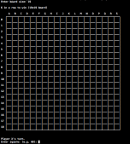
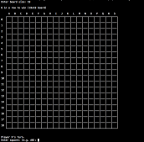
tweak tic tac toe project images and related css

diff --git a/css/site.css b/css/site.css
@@ -1,1 +1,1 @@
-@charset "UTF-8";html,body,div,span,applet,object,iframe,h1,h2,h3,h4,h5,h6,p,blockquote,pre,a,abbr,acronym,address,big,cite,code,del,dfn,em,img,ins,kbd,q,s,samp,small,strike,strong,sub,sup,tt,var,b,u,i,center,dl,dt,dd,ol,ul,li,fieldset,form,label,legend,table,caption,tbody,tfoot,thead,tr,th,td,article,aside,canvas,details,figcaption,figure,footer,header,hgroup,menu,nav,section,summary,time,mark,audio,video{margin:0;padding:0}article,aside,details,figcaption,figure,footer,header,hgroup,menu,nav,section{display:block}table{border-collapse:collapse;border-spacing:0}fieldset,img{border:0}address,caption,cite,dfn,th,var{font-style:normal;font-weight:normal}caption,th{text-align:left}h1,h2,h3,h4,h5,h6{font-size:100%;font-weight:normal}q:before,q:after{content:''}abbr,acronym{border:0}html{overflow-y:scroll;font-size:100%;font-family:Cambria,Georgia,"Times New Roman",serif;line-height:1.5;color:#333}body{width:940px;min-height:100%;padding:10px;margin:0 auto}.grids{margin-left:-20px;overflow:hidden;clear:both}.grid{float:left;margin:0 20px 0 0}.grids .grid{margin:0 0 0 20px}.grid-1{width:40px}.grid-2{width:100px}.grid-3{width:160px}.grid-4{width:220px}.grid-5{width:280px}.grid-6{width:340px}.grid-7{width:400px}.grid-8{width:460px}.grid-9{width:520px}.grid-10{width:580px}.grid-11{width:640px}.grid-12{width:700px}.grid-13{width:760px}.grid-14{width:820px}.grid-15{width:880px}.grid-16{width:940px;margin:0}#nav{list-style:none;width:100%;overflow:hidden;margin:0;height:45px;background-color:#6B563F}#nav ul{margin:0px}#nav a{display:block}#nav a.selected{background-color:white;color:#000000}#nav li{float:left;display:inline;list-style-image:none;list-style-position:outside;list-style-type:none}#nav li a{font-size:1.25em;letter-spacing:2px;display:block;float:left;height:25px;background-color:#6B563F;color:#ffffff;text-align:center;padding:8px 20px 12px 20px}#nav li a.nav-link:hover{text-decoration:none;background-color:#A9C78C;color:#000000}#nav li a.selected:hover{background-color:white;color:#000000}h1{font-size:2em;margin-bottom:0.25em;line-height:1.5}h2{font-size:1.75em;line-height:1}h3{font-size:1.5em;line-height:1.2;font-variant:small-caps}h4{font-size:1.1em;line-height:1.333;font-weight:bold}h5,h6{font-size:.85em;line-height:1.5}p{margin-bottom:1.5em}a{text-decoration:none}a:hover{text-decoration:underline}ul,ol{margin:0 0 1em 60px}ul ul,ol ol,ul ol,ol ul{margin:0 0 0 30px;list-style-type:disc}ul p,ol p{margin:0}dl{margin-bottom:1.5em}dt{font-weight:bold}dt:after,dt::after{content:":"}dd{margin-left:60px}q,i,em,cite{font-style:italic;font-weight:inherit}b,strong{font-weight:bold;font-style:inherit}mark{background:#ffc}s,del{text-decoration:line-through}small{font-size:0.75em;line-height:1}pre,code{font-family:Consolas,Menlo,Monaco,Lucida Console,Liberation Mono,DejaVu Sans Mono,Bitstream Vera Sans Mono,Courier New,monospace,serif;font-size:1em;font-style:normal}pre{overflow:auto;margin-bottom:1.5em;line-height:18px}code{line-height:1}img{max-width:100%;height:auto}object,embed,video{max-width:100%;height:auto}fieldset{padding:10px;border:1px solid #ccc;margin-bottom:1.5em}label{display:block;cursor:pointer}input,textarea{font-family:inherit;font-size:1em;line-height:1.5}table{margin-bottom:1.5em;width:100%;max-width:100%}th,td{vertical-align:top}th{font-weight:bold;text-align:center}td[colspan]{text-align:center}tfoot{text-align:center}.accessibility{position:absolute;left:-99999px}body{background:none;background:url(/img/green_squares3.png) repeat scroll 0 0 #376a44}#content{background-color:#FFF2CF;min-height:400px}#content-padding{padding:25px}a{color:#279F9D}a:hover{color:#1D7774;text-decoration:underline}h1 a{color:#333}.faded{color:#888888;font-family:Calibri,"Helvetica Neue",Arial,sans-serif;font-size:12px}.indent{padding-left:7px}.big_square_link{text-align:center;margin-top:10px}.big_square_link a{padding:20px 30px 0px;text-decoration:none;display:block;color:#333333}.big_square_link a:hover{background-color:#a9c78c;color:#333333}.blockylist h1,.blockylist h2,.blockylist h3,.blockylist h4,.blockylist h5{margin:0px}.blockylist ul{margin:10px 0px 10px 0px}.blockylist li{list-style-type:none}.blockylist ul div{margin:0px}.blockylist img{float:left;margin-right:10px;margin-top:9px}.blockylist a{text-decoration:none;display:block;color:#333333;padding:10px}.blockylist a:hover{background-color:#a9c78c;color:#000000}.bigblockylist > ul > li{margin-bottom:10px}.bigblockylist a{min-height:110px;padding-top:0px;padding-bottom:0px}.bigblockylist h1{padding-top:4px}.bigblockylist div{padding-left:120px}.mediumblockylist > ul > li{margin-bottom:10px}.mediumblockylist a{min-height:45px}div.mediumblockylist div{margin-left:1em;margin-top:.5em}.archiveblockylist > ul > li{margin-bottom:10px}.archiveblockylist a{min-height:65px;padding-top:0px;padding-bottom:0px}.archiveblockylist a h2{padding-top:8px;font-family:Cambria,Georgia,"Times New Roman",serif}.archiveblockylist a div{padding-top:2px}.compact_list > li{padding:0px;margin:5px 0px;list-style-type:none}p{margin-bottom:1em}h2,h3,h4,h5{margin:1em 0 .75em 0;font-family:Calibri,"Helvetica Neue",Arial,sans-serif}h5{margin-bottom:.5em;margin-top:.5em}.last_paragraph{margin-bottom:1.5em}.big_text{font-size:138.5%}.medium_text{font-size:123.1%}.tiny_text{font-size:.75em}td{background:white;vertical-align:middle}td a{display:block}.blockylist time{display:block;float:left;padding:0em .75em 0 0}.blockylist time span{color:#999999;display:block;margin:0;padding:0;text-align:center;font-family:Calibri,"Helvetica Neue",Arial,sans-serif}.blockylist time span.month{font-size:1em}.blockylist time span.day{font-size:1.6em;line-height:0.8em}.blockylist time span.year{font-size:0.8em}.blockylist a:hover time span,.blockylist a:hover .faded{color:#333}#blurb{font-size:1.25em;line-height:1.2;margin-top:1em;margin-bottom:1em}#profile_image{float:left;margin-right:20px;margin-bottom:10px;-moz-box-shadow:0px 0px 10px 2px #888;-webkit-box-shadow:0px 0px 10px 2px #888;box-shadow:0px 0px 10px 2px #888}#related{margin-top:30px}#post{margin-bottom:20px}hr.fancyrule{border:none;height:2px;background-color:#cccccc;color:#cccccc;margin:30px 0}#gallery{padding:5px;margin-bottom:10px;height:150px;overflow:hidden}#gallery ul{list-style:none;margin:0px}#gallery ul li{display:inline}#gallery ul img{margin:10px;width:144px}#gallery ul a:hover img{margin:0px;width:164px}#footer{padding-top:10px;text-align:center;color:white;clear:both}.project_thumbnail{width:90px;height:90px;border:1px solid black;-moz-box-shadow:0px 0px 10px 0px #888;-webkit-box-shadow:0px 0px 10px 0px #888;box-shadow:0px 0px 10px 0px #888}pre{background-color:#EEEEEE;border-top:1px solid #CCCCCC;border-bottom:1px solid #CCCCCC;padding:1em}code{font-size:12px;font-family:Consolas,Menlo,Monaco,Lucida Console,Liberation Mono,DejaVu Sans Mono,Bitstream Vera Sans Mono,Courier New,monospace,serif;background-color:#EEEEEE;padding:4px}pre code{padding:0}#socialbuttons{margin-bottom:15px}#socialbuttons div{display:inline-block;vertical-align:top;margin-top:10px}#socialbuttons iframe{vertical-align:bottom}#rss_button{margin-right:30px}#twitter_button{margin-right:30px}#reddit_button{margin-right:30px}#reddit_button iframe{margin-bottom:-3px}blockquote p,blockquote ul,blockquote ol,blockquote .highlight{margin-bottom:1em}blockquote p:last-child,blockquote ul:last-child,blockquote ol:last-child,blockquote .highlight:last-child{margin-bottom:0}blockquote pre{margin-bottom:0}blockquote{border-left:3px solid #BBBBBB;padding:.5em 1em 0.5em 1em;margin:1em 1em 1.5em 1em;background-color:#F5F5F5;font-style:italic}blockquote .highlight{background-color:#F5F5F5}.interjection{font-size:88%}.super{vertical-align:super;font-size:75%;font-family:Calibri,"Helvetica Neue",Arial,sans-serif}.symmetrical_line_height pre{line-height:12px}#post img{display:block;margin-left:auto;margin-right:auto}#formatted_solutions{margin-bottom:1.5em}#formatted_solutions pre{margin-bottom:0}#formatted_solutions > p,#formatted_solutions .indent{margin-left:60px}#formatted_solutions ul{list-style-type:none}#formatted_solutions .code_explanation{margin:0.5em 0}#formatted_solutions .question{font-size:1em;line-height:1.333;font-family:Calibri,"Helvetica Neue",Arial,sans-serif;margin-bottom:0.75em;margin-top:1.5em}#formatted_solutions .tiny_title{font-size:.85em;line-height:1.5;font-family:Calibri,"Helvetica Neue",Arial,sans-serif;margin-bottom:0.5em;margin-top:0.5em}.contact-row{height:90px}@media (min-width: 721px) and (max-width: 960px){body{width:700px}.grid-1{width:25px}.grid-2{width:70px}.grid-3{width:115px}.grid-4{width:160px}.grid-5{width:205px}.grid-6{width:250px}.grid-7{width:295px}.grid-8{width:340px}.grid-9{width:385px}.grid-10{width:430px}.grid-11{width:475px}.grid-12{width:520px}.grid-13{width:565px}.grid-14{width:610px}.grid-15{width:655px}.grid-16{width:700px}ul,ol{margin:0 0 1em 45px}ul ul,ol ol,ul ol,ol ul{margin:0 0 0 22.5px}dd{margin-left:45px}#formatted_solutions > p,#formatted_solutions .indent{margin-left:45px}}@media (max-width: 720px){html{font-size:1em}body{padding:10px;width:auto;-webkit-text-size-adjust:none}h1{font-size:1.7em}.grid{width:auto;float:none}#content-padding{padding:15px 10px}ul,ol{margin:0 0 1em 25px}ul ul,ol ol,ul ol,ol ul{margin:0 0 0 12.5px}dd{margin-left:25px}#formatted_solutions > p,#formatted_solutions .indent{margin-left:25px}#nav{height:auto}#nav li a{font-size:1em;height:20px;padding:6px 16px 8px 16px}#nav #rss-nav-icon,#nav #twitter-nav-icon{padding-left:8px;padding-right:8px}#nav #rss-nav-icon img,#nav #twitter-nav-icon img{height:24px}.contact-row{height:auto}.blockylist div{padding:0px}.blockylist img{height:65px;width:65px}.project_thumbnail{height:75px;width:75px}}@media print{*{background:#fff;color:#000;text-shadow:none!important}body{width:75%;margin:0 auto;font-size:0.75em}#nav,#footer{display:none}.grid{width:auto;float:none;clear:both}img{max-width:100%;height:auto}table{page-break-before:always}.accessibility{position:static}a:link:after,a:visited:after,a:link::after,a:visited::after{content:" (" attr(href) ")";font-size:smaller}a[href^="/"]:after,a[href^="/"]::after{content:" (http://nickknowlson.com" attr(href) ")";font-size:smaller}object:after,object::after{content:"Flash/video content. Head to http://nickknowlson.com/ to view this content.";display:block;font-weight:bold;margin-bottom:1.5em}}
+@charset "UTF-8";html,body,div,span,applet,object,iframe,h1,h2,h3,h4,h5,h6,p,blockquote,pre,a,abbr,acronym,address,big,cite,code,del,dfn,em,img,ins,kbd,q,s,samp,small,strike,strong,sub,sup,tt,var,b,u,i,center,dl,dt,dd,ol,ul,li,fieldset,form,label,legend,table,caption,tbody,tfoot,thead,tr,th,td,article,aside,canvas,details,figcaption,figure,footer,header,hgroup,menu,nav,section,summary,time,mark,audio,video{margin:0;padding:0}article,aside,details,figcaption,figure,footer,header,hgroup,menu,nav,section{display:block}table{border-collapse:collapse;border-spacing:0}fieldset,img{border:0}address,caption,cite,dfn,th,var{font-style:normal;font-weight:normal}caption,th{text-align:left}h1,h2,h3,h4,h5,h6{font-size:100%;font-weight:normal}q:before,q:after{content:''}abbr,acronym{border:0}html{overflow-y:scroll;font-size:100%;font-family:Cambria,Georgia,"Times New Roman",serif;line-height:1.5;color:#333}body{width:940px;min-height:100%;padding:10px;margin:0 auto}.grids{margin-left:-20px;overflow:hidden;clear:both}.grid{float:left;margin:0 20px 0 0}.grids .grid{margin:0 0 0 20px}.grid-1{width:40px}.grid-2{width:100px}.grid-3{width:160px}.grid-4{width:220px}.grid-5{width:280px}.grid-6{width:340px}.grid-7{width:400px}.grid-8{width:460px}.grid-9{width:520px}.grid-10{width:580px}.grid-11{width:640px}.grid-12{width:700px}.grid-13{width:760px}.grid-14{width:820px}.grid-15{width:880px}.grid-16{width:940px;margin:0}#nav{list-style:none;width:100%;overflow:hidden;margin:0;height:45px;background-color:#6B563F}#nav ul{margin:0px}#nav a{display:block}#nav a.selected{background-color:white;color:#000000}#nav li{float:left;display:inline;list-style-image:none;list-style-position:outside;list-style-type:none}#nav li a{font-size:1.25em;letter-spacing:2px;display:block;float:left;height:25px;background-color:#6B563F;color:#ffffff;text-align:center;padding:8px 20px 12px 20px}#nav li a.nav-link:hover{text-decoration:none;background-color:#A9C78C;color:#000000}#nav li a.selected:hover{background-color:white;color:#000000}h1{font-size:2em;margin-bottom:0.25em;line-height:1.5}h2{font-size:1.75em;line-height:1}h3{font-size:1.5em;line-height:1.2;font-variant:small-caps}h4{font-size:1.1em;line-height:1.333;font-weight:bold}h5,h6{font-size:.85em;line-height:1.5}p{margin-bottom:1.5em}a{text-decoration:none}a:hover{text-decoration:underline}ul,ol{margin:0 0 1em 60px}ul ul,ol ol,ul ol,ol ul{margin:0 0 0 30px;list-style-type:disc}ul p,ol p{margin:0}dl{margin-bottom:1.5em}dt{font-weight:bold}dt:after,dt::after{content:":"}dd{margin-left:60px}q,i,em,cite{font-style:italic;font-weight:inherit}b,strong{font-weight:bold;font-style:inherit}mark{background:#ffc}s,del{text-decoration:line-through}small{font-size:0.75em;line-height:1}pre,code{font-family:Consolas,Menlo,Monaco,Lucida Console,Liberation Mono,DejaVu Sans Mono,Bitstream Vera Sans Mono,Courier New,monospace,serif;font-size:1em;font-style:normal}pre{overflow:auto;margin-bottom:1.5em;line-height:18px}code{line-height:1}img{max-width:100%;height:auto}object,embed,video{max-width:100%;height:auto}fieldset{padding:10px;border:1px solid #ccc;margin-bottom:1.5em}label{display:block;cursor:pointer}input,textarea{font-family:inherit;font-size:1em;line-height:1.5}table{margin-bottom:1.5em;width:100%;max-width:100%}th,td{vertical-align:top}th{font-weight:bold;text-align:center}td[colspan]{text-align:center}tfoot{text-align:center}.accessibility{position:absolute;left:-99999px}body{background:none;background:url(/img/green_squares3.png) repeat scroll 0 0 #376a44}#content{background-color:#FFF2CF;min-height:400px}#content-padding{padding:25px}a{color:#279F9D}a:hover{color:#1D7774;text-decoration:underline}h1 a{color:#333}.faded{color:#888888;font-family:Calibri,"Helvetica Neue",Arial,sans-serif;font-size:12px}.indent{padding-left:7px}.big_square_link{text-align:center;margin-top:10px}.big_square_link a{padding:20px 30px 0px;text-decoration:none;display:block;color:#333333}.big_square_link a:hover{background-color:#a9c78c;color:#333333}.blockylist h1,.blockylist h2,.blockylist h3,.blockylist h4,.blockylist h5{margin:0px}.blockylist ul{margin:10px 0px 10px 0px}.blockylist li{list-style-type:none}.blockylist ul div{margin:0px}.blockylist img{float:left;margin-right:10px;margin-top:9px}.blockylist a{text-decoration:none;display:block;color:#333333;padding:10px}.blockylist a:hover{background-color:#a9c78c;color:#000000}.bigblockylist > ul > li{margin-bottom:10px}.bigblockylist a{min-height:110px;padding-top:0px;padding-bottom:0px}.bigblockylist h1{padding-top:4px}.bigblockylist div{padding-left:120px}.mediumblockylist > ul > li{margin-bottom:10px}.mediumblockylist a{min-height:45px}div.mediumblockylist div{margin-left:1em;margin-top:.5em}.archiveblockylist > ul > li{margin-bottom:10px}.archiveblockylist a{min-height:65px;padding-top:0px;padding-bottom:0px}.archiveblockylist a h2{padding-top:8px;font-family:Cambria,Georgia,"Times New Roman",serif}.archiveblockylist a div{padding-top:2px}.compact_list > li{padding:0px;margin:5px 0px;list-style-type:none}p{margin-bottom:1em}h2,h3,h4,h5{margin:1em 0 .75em 0;font-family:Calibri,"Helvetica Neue",Arial,sans-serif}h5{margin-bottom:.5em;margin-top:.5em}.last_paragraph{margin-bottom:1.5em}.big_text{font-size:138.5%}.medium_text{font-size:123.1%}.tiny_text{font-size:.75em}td{background:white;vertical-align:middle}td a{display:block}.blockylist time{display:block;float:left;padding:0em .75em 0 0}.blockylist time span{color:#999999;display:block;margin:0;padding:0;text-align:center;font-family:Calibri,"Helvetica Neue",Arial,sans-serif}.blockylist time span.month{font-size:1em}.blockylist time span.day{font-size:1.6em;line-height:0.8em}.blockylist time span.year{font-size:0.8em}.blockylist a:hover time span,.blockylist a:hover .faded{color:#333}#blurb{font-size:1.25em;line-height:1.2;margin-top:1em;margin-bottom:1em}#profile_image{float:left;margin-right:20px;margin-bottom:10px;-moz-box-shadow:0px 0px 10px 2px #888;-webkit-box-shadow:0px 0px 10px 2px #888;box-shadow:0px 0px 10px 2px #888}#related{margin-top:30px}#post{margin-bottom:20px}hr.fancyrule{border:none;height:2px;background-color:#cccccc;color:#cccccc;margin:30px 0}#gallery{padding:5px;height:184px;overflow:hidden}#gallery ul{list-style:none;margin:0px}#gallery ul li{display:inline-block;height:144px}#gallery ul a{display:inline-block;height:144px}#gallery ul img{margin:10px 10px 10px 10px;width:144px}#gallery ul a:hover img{margin:0 0 0px 0;width:164px}#footer{padding-top:10px;text-align:center;color:white;clear:both}.project_thumbnail{width:90px;height:90px;border:1px solid black;-moz-box-shadow:0px 0px 10px 0px #888;-webkit-box-shadow:0px 0px 10px 0px #888;box-shadow:0px 0px 10px 0px #888}pre{background-color:#EEEEEE;border-top:1px solid #CCCCCC;border-bottom:1px solid #CCCCCC;padding:1em}code{font-size:12px;font-family:Consolas,Menlo,Monaco,Lucida Console,Liberation Mono,DejaVu Sans Mono,Bitstream Vera Sans Mono,Courier New,monospace,serif;background-color:#EEEEEE;padding:4px}pre code{padding:0}#socialbuttons{margin-bottom:15px}#socialbuttons div{display:inline-block;vertical-align:top;margin-top:10px}#socialbuttons iframe{vertical-align:bottom}#rss_button{margin-right:30px}#twitter_button{margin-right:30px}#reddit_button{margin-right:30px}#reddit_button iframe{margin-bottom:-3px}blockquote p,blockquote ul,blockquote ol,blockquote .highlight{margin-bottom:1em}blockquote p:last-child,blockquote ul:last-child,blockquote ol:last-child,blockquote .highlight:last-child{margin-bottom:0}blockquote pre{margin-bottom:0}blockquote{border-left:3px solid #BBBBBB;padding:.5em 1em 0.5em 1em;margin:1em 1em 1.5em 1em;background-color:#F5F5F5;font-style:italic}blockquote .highlight{background-color:#F5F5F5}.interjection{font-size:88%}.super{vertical-align:super;font-size:75%;font-family:Calibri,"Helvetica Neue",Arial,sans-serif}.symmetrical_line_height pre{line-height:12px}#post img{display:block;margin-left:auto;margin-right:auto}#formatted_solutions{margin-bottom:1.5em}#formatted_solutions pre{margin-bottom:0}#formatted_solutions > p,#formatted_solutions .indent{margin-left:60px}#formatted_solutions ul{list-style-type:none}#formatted_solutions .code_explanation{margin:0.5em 0}#formatted_solutions .question{font-size:1em;line-height:1.333;font-family:Calibri,"Helvetica Neue",Arial,sans-serif;margin-bottom:0.75em;margin-top:1.5em}#formatted_solutions .tiny_title{font-size:.85em;line-height:1.5;font-family:Calibri,"Helvetica Neue",Arial,sans-serif;margin-bottom:0.5em;margin-top:0.5em}.contact-row{height:90px}@media (min-width: 721px) and (max-width: 960px){body{width:700px}.grid-1{width:25px}.grid-2{width:70px}.grid-3{width:115px}.grid-4{width:160px}.grid-5{width:205px}.grid-6{width:250px}.grid-7{width:295px}.grid-8{width:340px}.grid-9{width:385px}.grid-10{width:430px}.grid-11{width:475px}.grid-12{width:520px}.grid-13{width:565px}.grid-14{width:610px}.grid-15{width:655px}.grid-16{width:700px}ul,ol{margin:0 0 1em 45px}ul ul,ol ol,ul ol,ol ul{margin:0 0 0 22.5px}dd{margin-left:45px}#formatted_solutions > p,#formatted_solutions .indent{margin-left:45px}}@media (max-width: 720px){html{font-size:1em}body{padding:10px;width:auto;-webkit-text-size-adjust:none}h1{font-size:1.7em}.grid{width:auto;float:none}#content-padding{padding:15px 10px}ul,ol{margin:0 0 1em 25px}ul ul,ol ol,ul ol,ol ul{margin:0 0 0 12.5px}dd{margin-left:25px}#formatted_solutions > p,#formatted_solutions .indent{margin-left:25px}#nav{height:auto}#nav li a{font-size:1em;height:20px;padding:6px 16px 8px 16px}#nav #rss-nav-icon,#nav #twitter-nav-icon{padding-left:8px;padding-right:8px}#nav #rss-nav-icon img,#nav #twitter-nav-icon img{height:24px}.contact-row{height:auto}.blockylist div{padding:0px}.blockylist img{height:65px;width:65px}.project_thumbnail{height:75px;width:75px}}@media print{*{background:#fff;color:#000;text-shadow:none!important}body{width:75%;margin:0 auto;font-size:0.75em}#nav,#footer{display:none}.grid{width:auto;float:none;clear:both}img{max-width:100%;height:auto}table{page-break-before:always}.accessibility{position:static}a:link:after,a:visited:after,a:link::after,a:visited::after{content:" (" attr(href) ")";font-size:smaller}a[href^="/"]:after,a[href^="/"]::after{content:" (http://nickknowlson.com" attr(href) ")";font-size:smaller}object:after,object::after{content:"Flash/video content. Head to http://nickknowlson.com/ to view this content.";display:block;font-weight:bold;margin-bottom:1.5em}}

diff --git a/sass/site.scss b/sass/site.scss
@@ -589,21 +589,21 @@ hr.fancyrule {
 /* jQuery lightBox plugin - Gallery style {{{ */
 #gallery {
         padding: 5px;
-        margin-bottom: 10px;
-        height:150px;
+        height:184px;
         overflow:hidden;
 }
 #gallery ul { list-style: none; margin: 0px; }
-#gallery ul li { display: inline; }
+#gallery ul li { display: inline-block; height: 144px; }
+#gallery ul a { display: inline-block; height: 144px; }
 #gallery ul img {
-        margin: 10px;
+        margin: 10px 10px 10px 10px;
         width: 144px;
 }
 #gallery ul a:hover img {
         /*-moz-box-shadow: 0px 0px 15px 3px #333333;
         -webkit-box-shadow: 0px 0px 15px 3px #333333;
         box-shadow: 0px 0px 15px 3px #333333;*/
-        margin:0px;
+        margin:0 0 0px 0;
         width:164px;
 }
 
